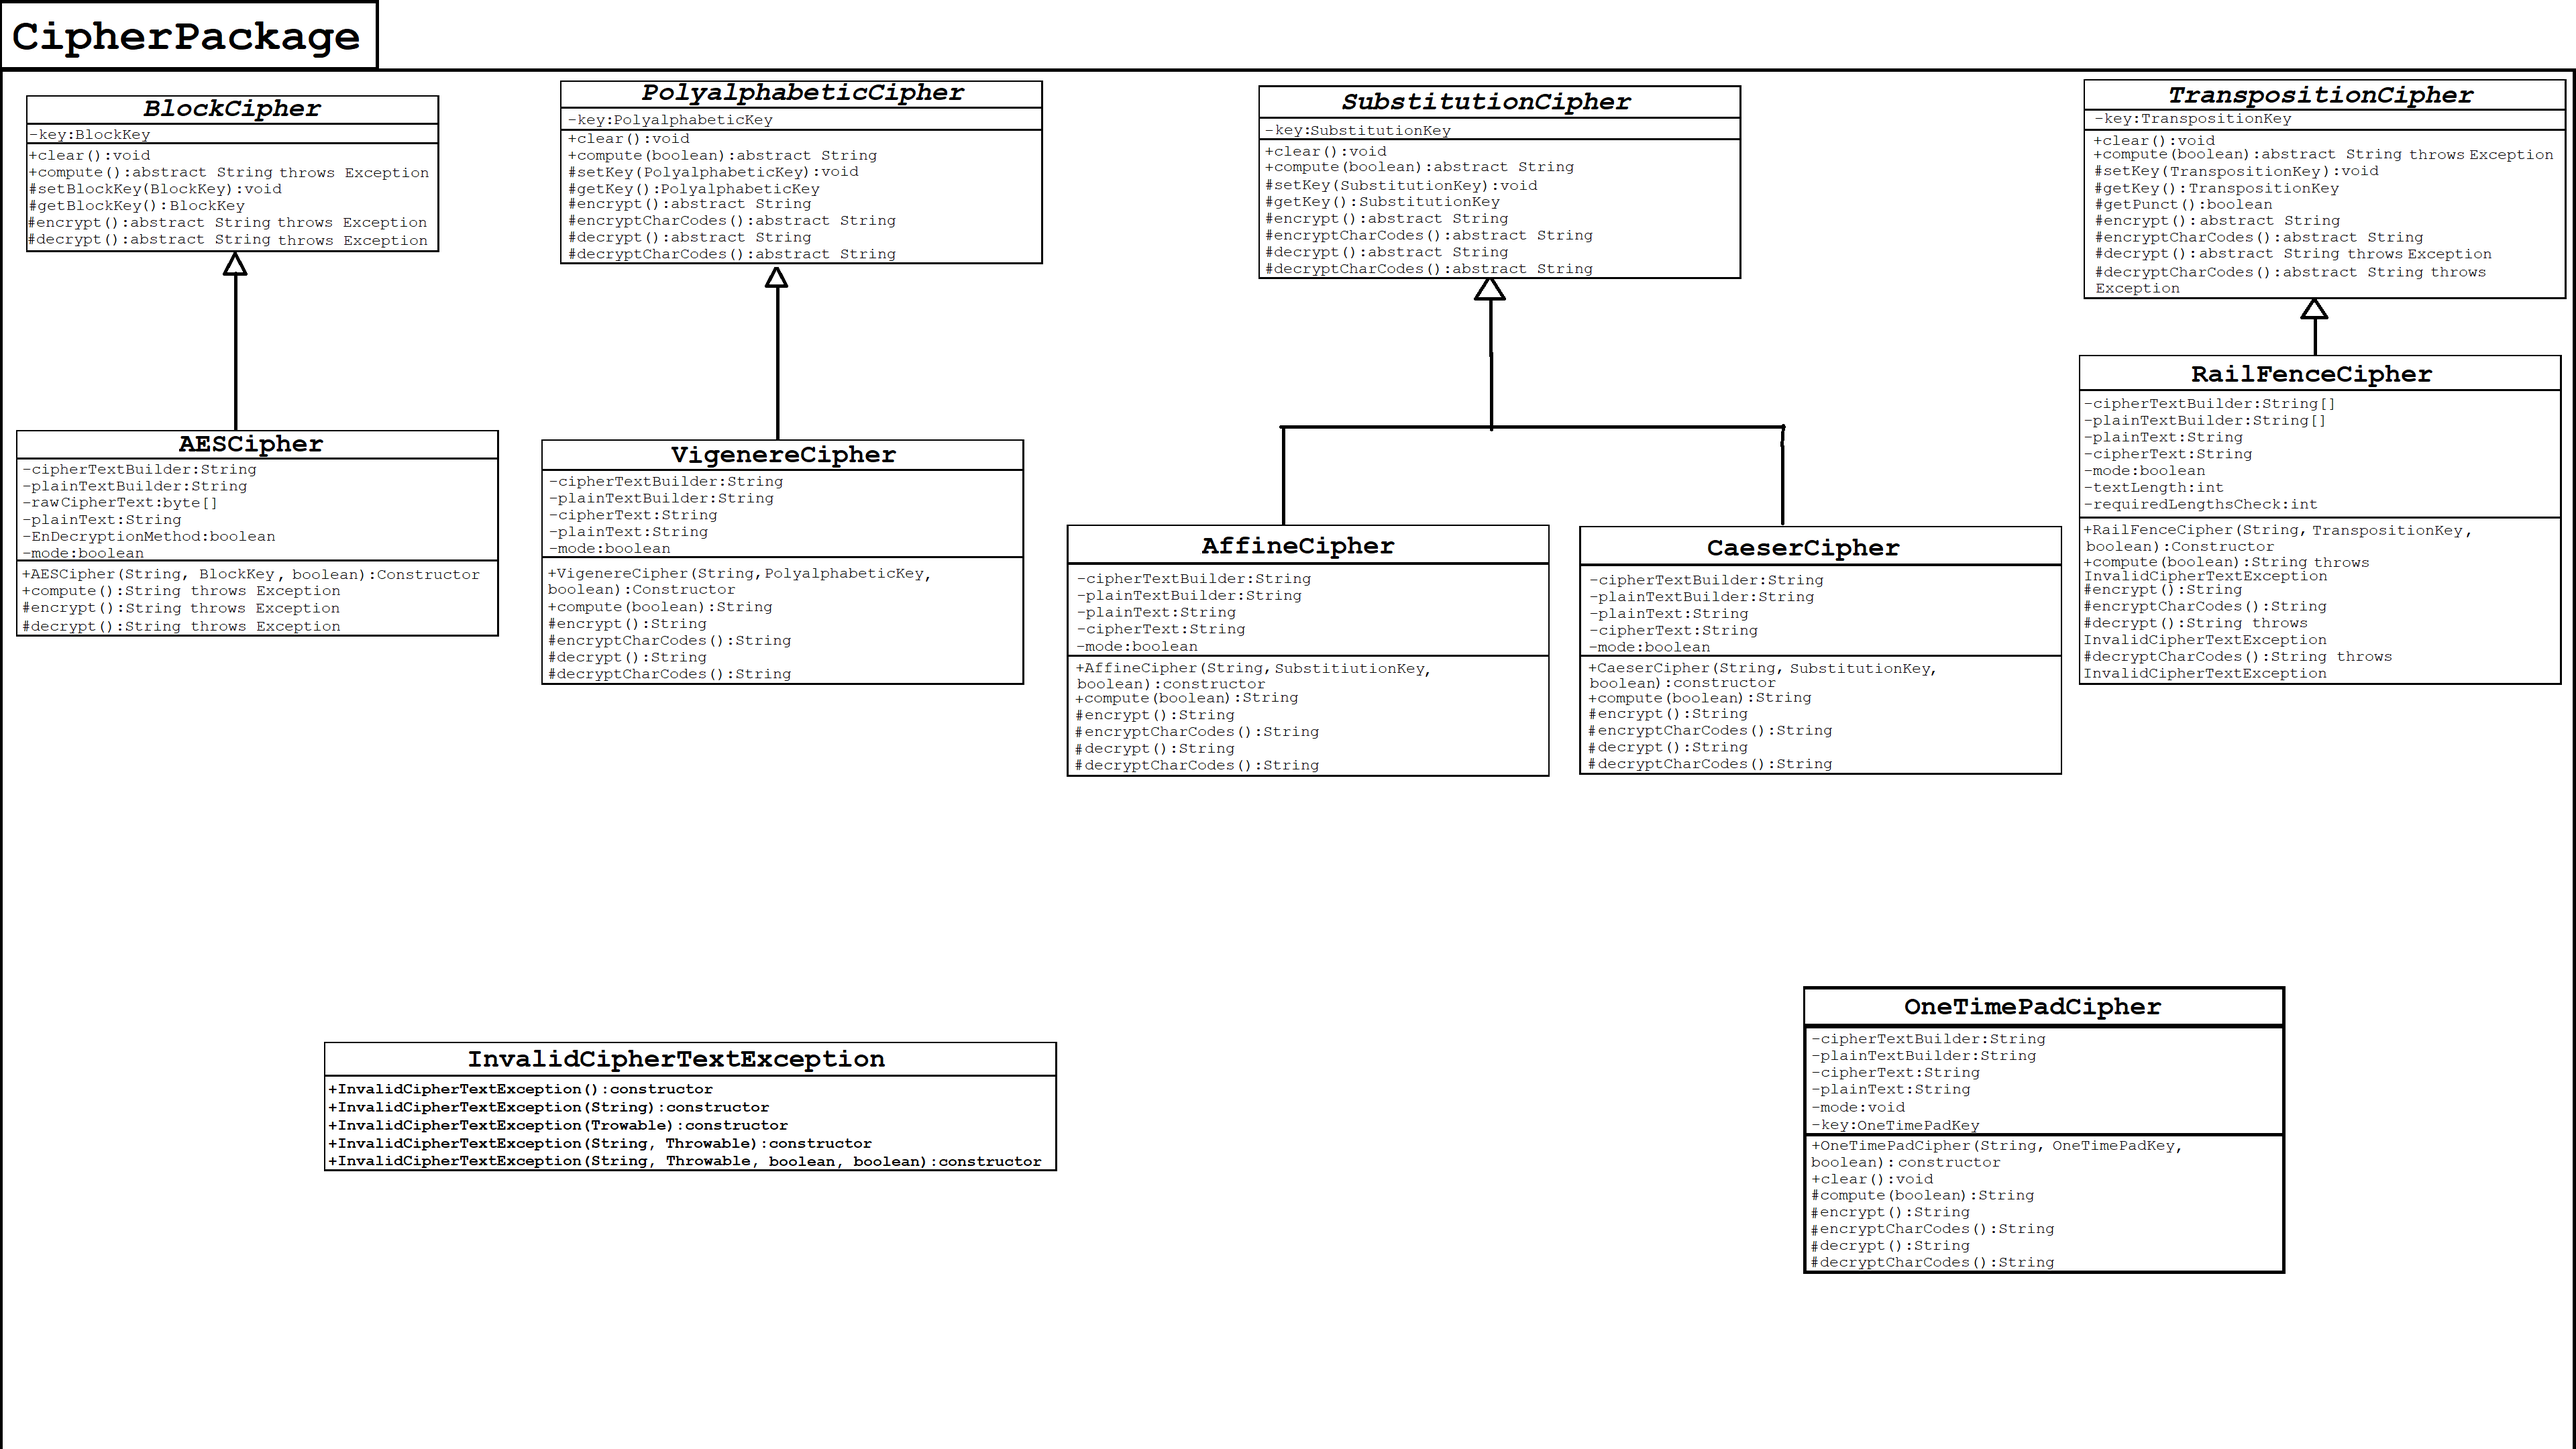
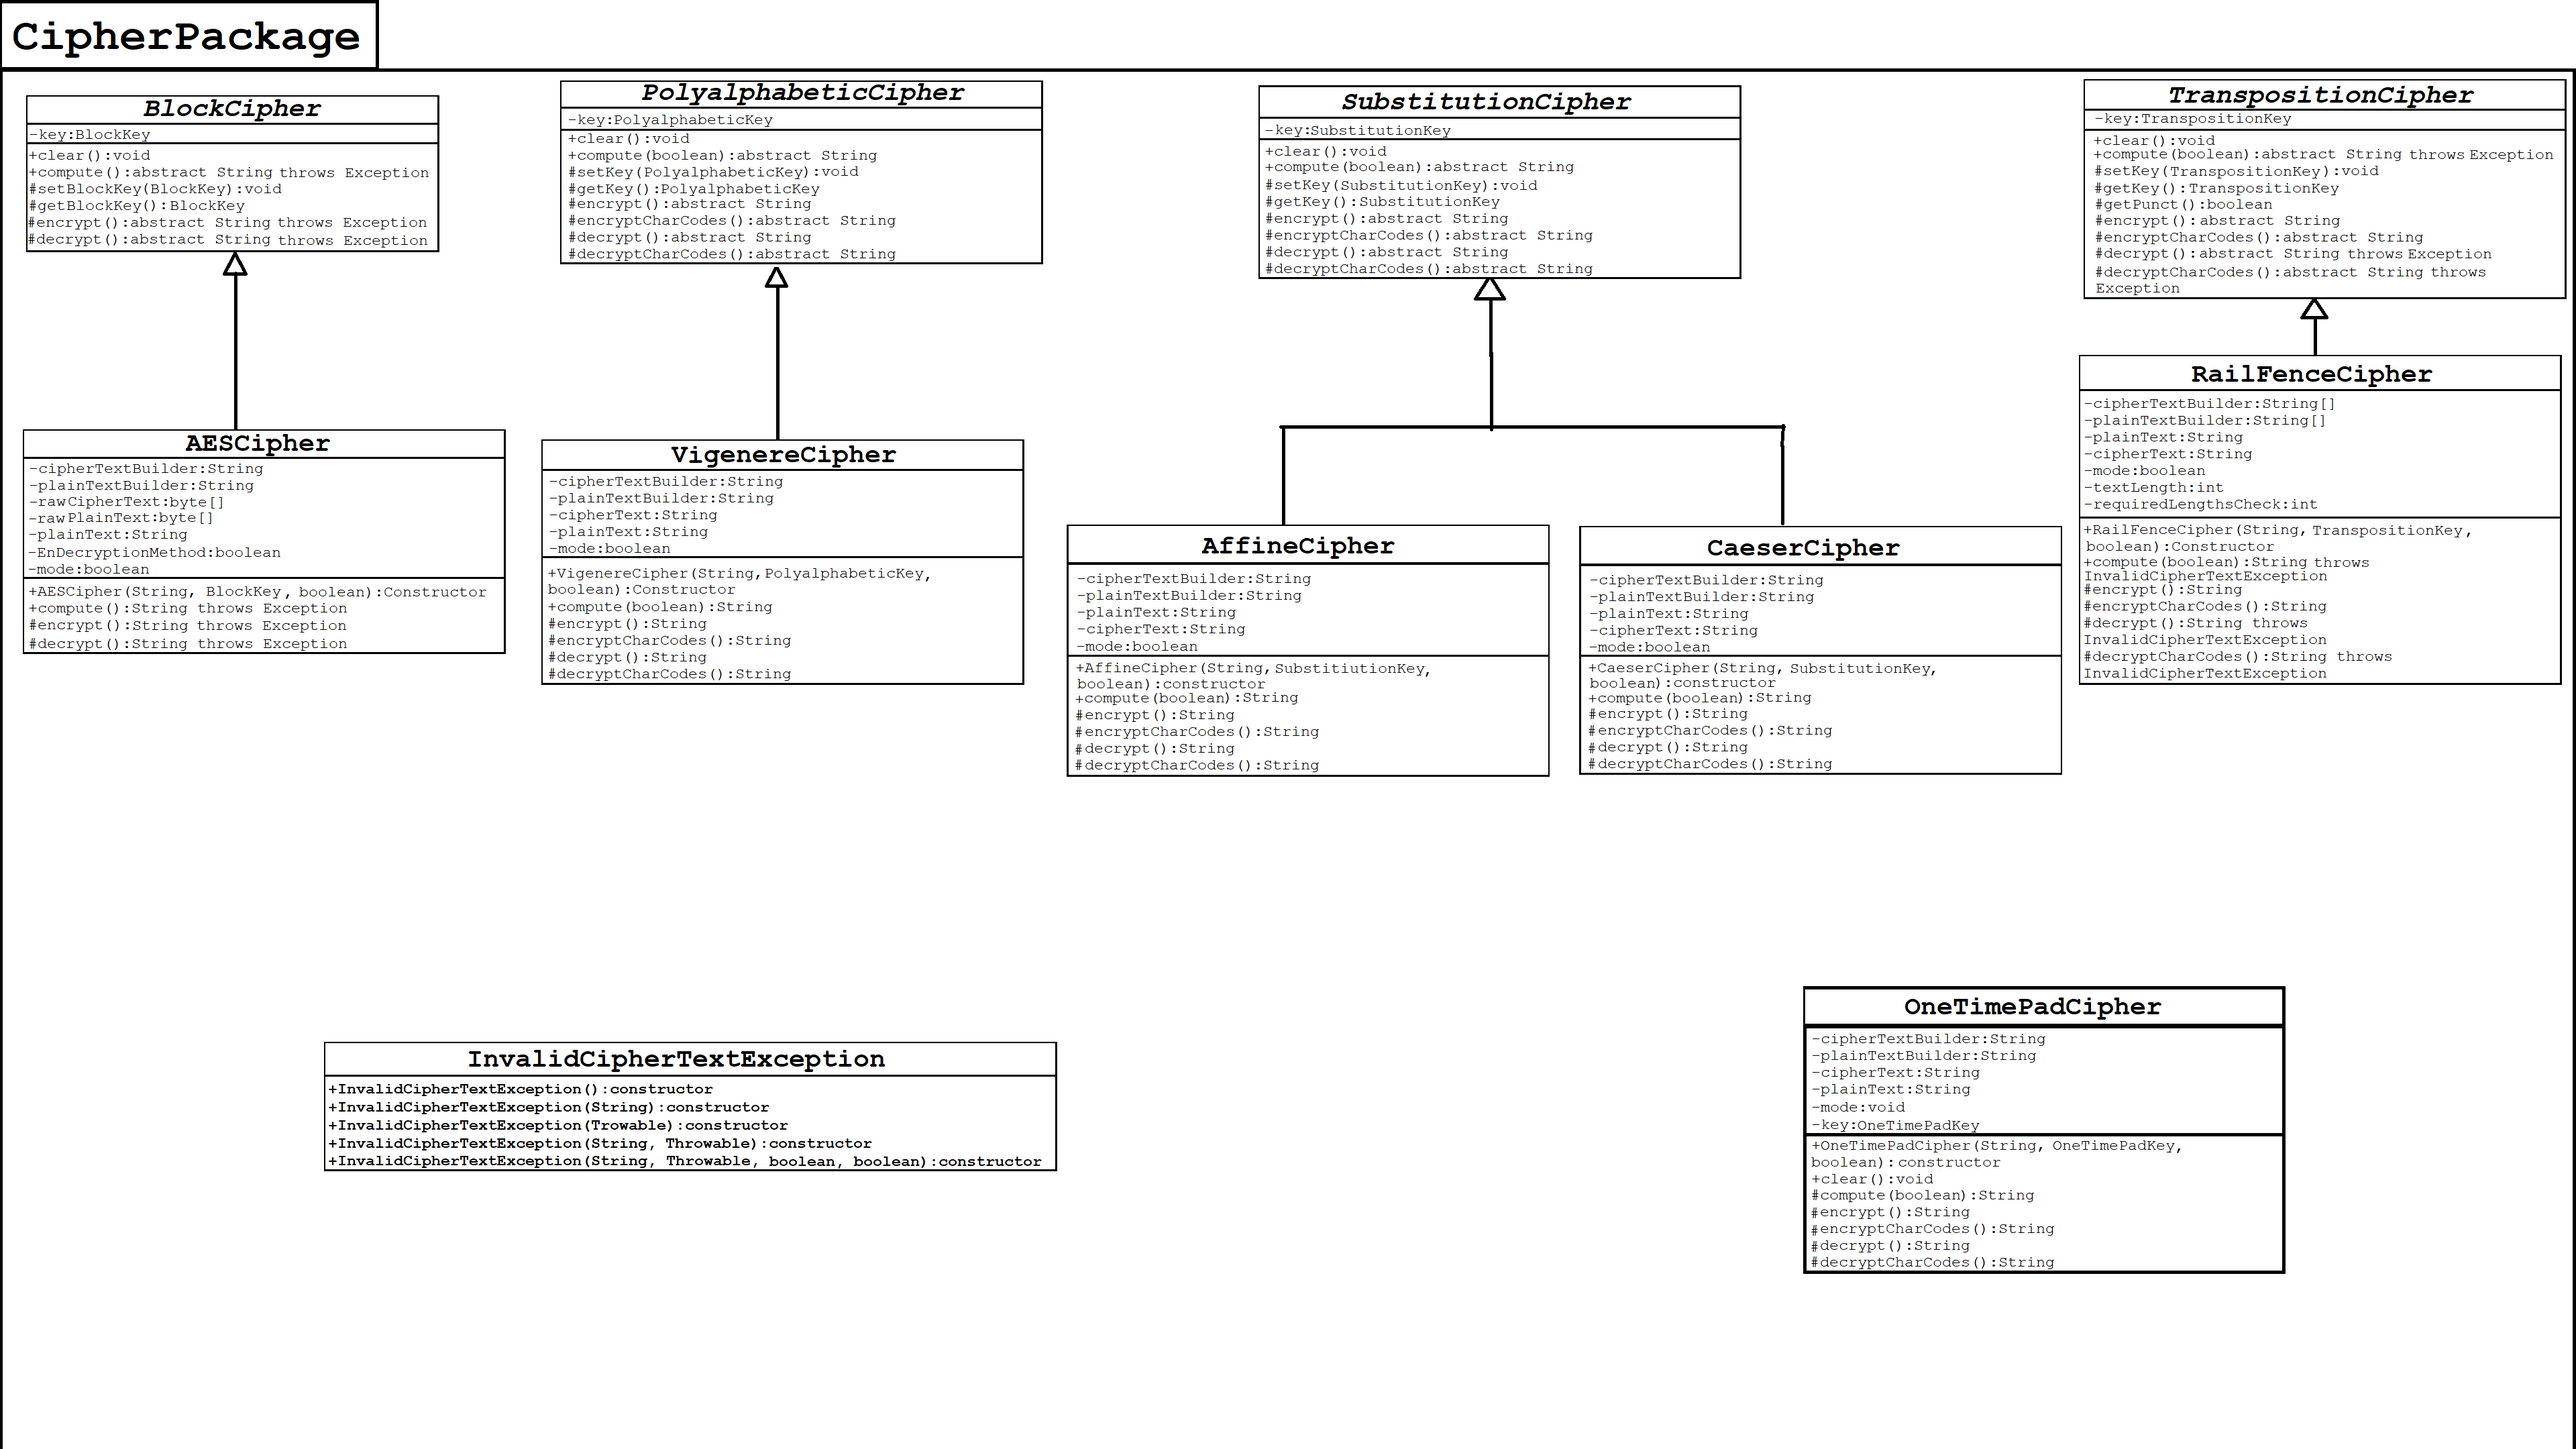
Added another field variable that was neccessary.  Updated related diagrams.

Changed region(s): [[0.0, 0.2792, 0.1875, 0.4653]]

diff --git a/Encryptor Decryptor File Encryption/src/Encryptor Decryptor File Ecryption/CipherPackage/AESCipher.java b/Encryptor Decryptor File Encryption/src/Encryptor Decryptor File Ecryption/CipherPackage/AESCipher.java
@@ -4,11 +4,13 @@
 package CipherPackage;
 
 import java.io.UnsupportedEncodingException;
+import java.security.InvalidKeyException;
 
 import CipherKeys.BlockKey;
 import javax.crypto.Cipher;
 import javax.crypto.spec.SecretKeySpec;
 import javax.crypto.spec.GCMParameterSpec;
+import javax.crypto.spec.IvParameterSpec;
 
 /**
  * @author Amol Soneji
@@ -20,6 +22,7 @@ public class AESCipher extends BlockCipher
 	private String cipherTextBuilder;
 	private String plainTextBuilder;
 	private byte[] rawCipherText;
+	private byte[] rawPlainText;
 	private String plainText;
 	private boolean EnDecryptionMethod;
 	private boolean mode;
@@ -50,7 +53,23 @@ public class AESCipher extends BlockCipher
 			}
 		}
 		else
-			plainText = text;
+		{
+			try
+			{
+				rawPlainText = text.getBytes("UTF-16");
+			}
+			catch(UnsupportedEncodingException e)
+			{
+				e.printStackTrace();
+				System.out.println("Error could not interpret text.  ");
+				System.out.println("Fatal program error, programm will close in 10 seconds.  ");
+				for(int i = 0; i < 100000; i++)
+				{
+					i = i; // Do nothing.  
+				}
+				System.exit(1);
+			}
+		}
 		super.setBlockKey(key);
 		EnDecryptionMethod = key.getEnDecryptionMethod();
 	}
@@ -74,6 +93,15 @@ public class AESCipher extends BlockCipher
 			{
 				SecretKeySpec keySpec = new SecretKeySpec(super.getBlockKey().getKey().getEncoded(), "AES");
 				GCMParameterSpec parameterSpec = new GCMParameterSpec(super.getBlockKey().getAuthenticationTagLength(), super.getBlockKey().getIV());
+				cipher.init(Cipher.ENCRYPT_MODE, keySpec, parameterSpec);
+				
+			}
+			catch(InvalidKeyException e)
+			{
+				e.printStackTrace();
+				System.out.println("There was an issue with the key that was provided, plase make sure the correct \n"
+								 + "key was supplied.  ");
+				throw new Exception();
 			}
 			catch(IllegalArgumentException e)
 			{
@@ -88,7 +116,16 @@ public class AESCipher extends BlockCipher
 			try
 			{
 				SecretKeySpec keySpec = new SecretKeySpec(super.getBlockKey().getKey().getEncoded(), "AES");
-				
+				IvParameterSpec ivSpec = new IvParameterSpec(super.getBlockKey().getIV());
+				cipher.init(Cipher.ENCRYPT_MODE, keySpec, ivSpec);
+				rawCipherText = cipher.doFinal(rawPlainText);
+			}
+			catch(InvalidKeyException e)
+			{
+				e.printStackTrace();
+				System.out.println("There was an issue with the key that was provided, please make sure the correct \n"
+								 + "key was supplied.  ");
+				throw new Exception();
 			}
 			catch(IllegalArgumentException e)
 			{
